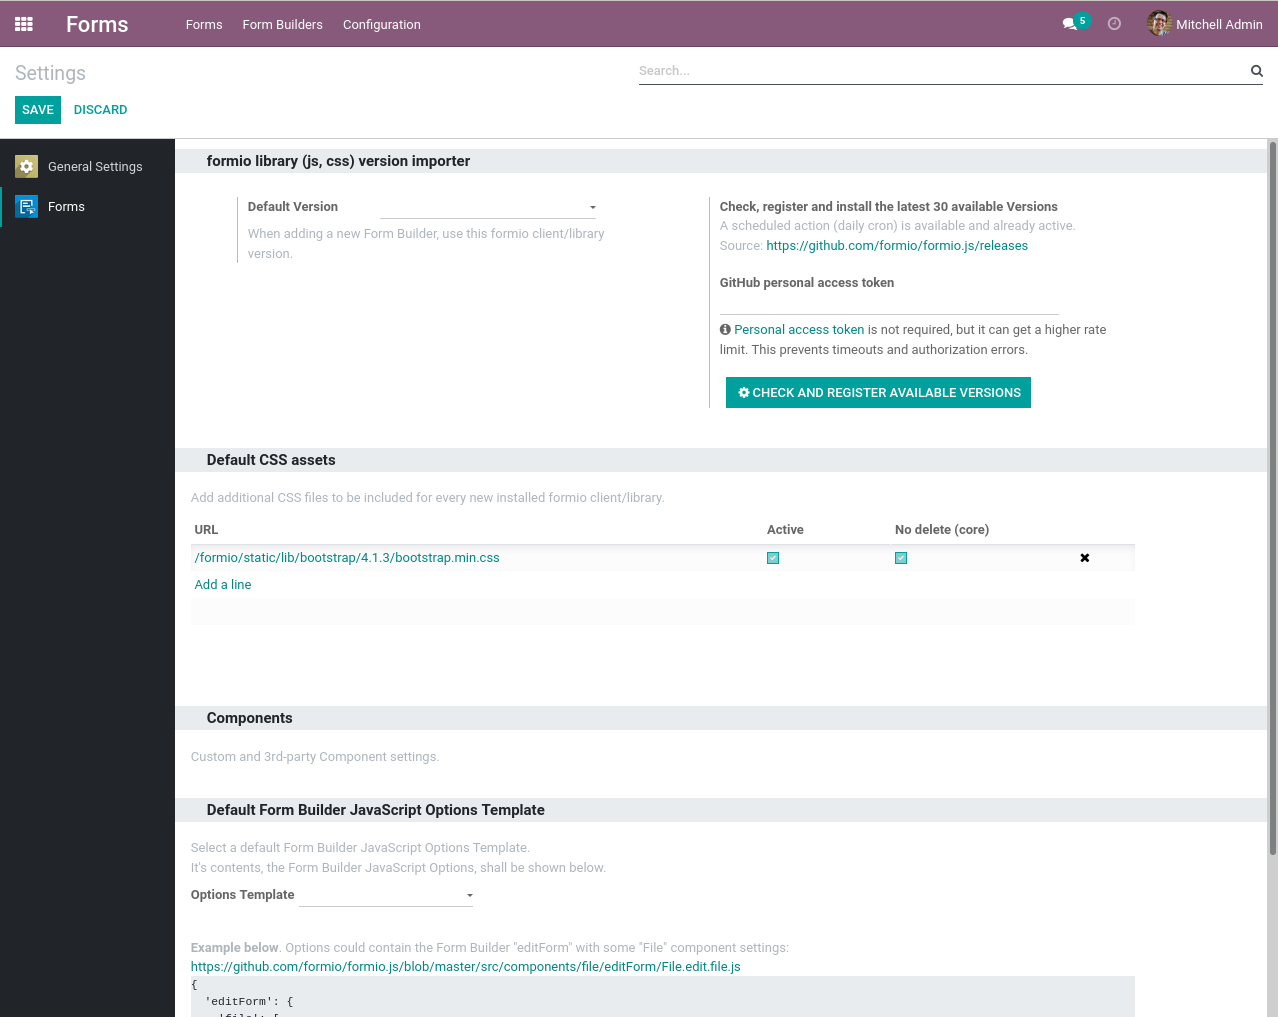
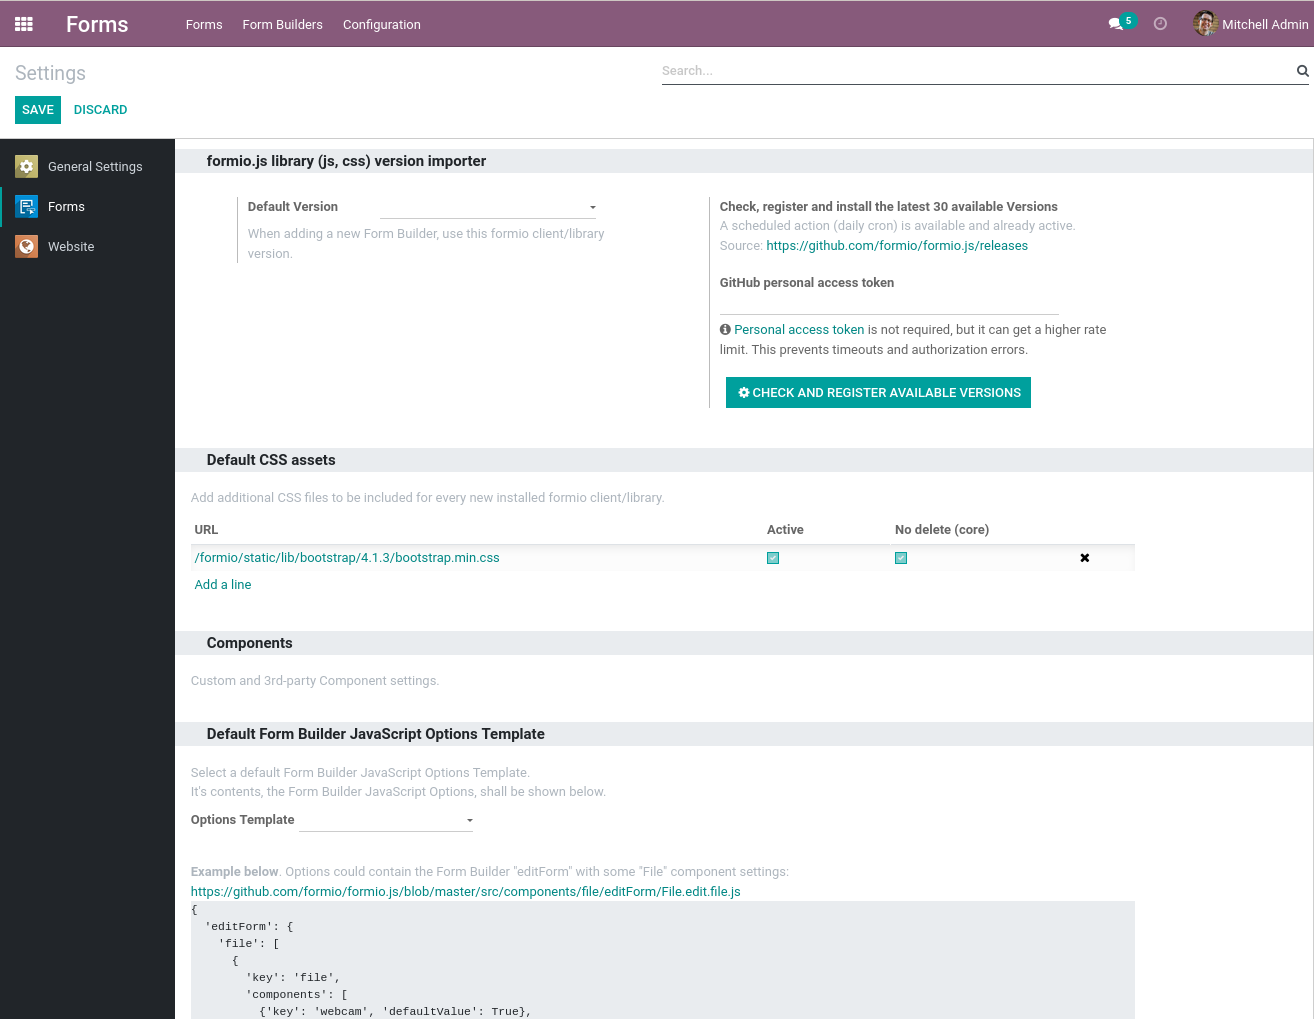
[IMP] Correct naming of the formio.js library references.

diff --git a/formio/static/description/index.html b/formio/static/description/index.html
@@ -65,8 +65,8 @@
         <td>Forms and Builders are multilingual: Language-switch buttons can be setup. Manage your custom translations (e.g. labels, select choices) in the Form Builder.</td>
       </tr>
       <tr>
-        <td><strong>Upgrade-tool GUI software</strong></td>
-        <td>Upgrade the GUI software (builder, forms) when a new version is available, by just a few clicks.</td>
+        <td><strong>Upgrade-tool formio.js library assets</strong></td>
+        <td>Upgrade the formio.js library assets (builder, forms) when a new version is available, by just a few clicks.</td>
       </tr>
       <tr>
         <td><strong>Developer Friendly</strong></td>
@@ -178,11 +178,11 @@
       <img class="oe_demo oe_picture oe_screenshot" src="formio-config-settings.png">
     </div>
     <div class="oe_row_img oe_centered">
-      <h4 class="oe_mb16 text-center">List of Available &amp; Installed (Form.io GUI) Versions </h4>
+      <h4 class="oe_mb16 text-center">List of Available &amp; Installed formio.js Versions </h4>
       <img class="oe_demo oe_picture oe_screenshot" src="formio-version-check-install.png">
     </div>
     <div class="oe_row_img oe_centered">
-      <h4 class="oe_mb16 text-center">Download &amp; Install Available (Form.io GUI) Versions</h4>
+      <h4 class="oe_mb16 text-center">Download &amp; Install Available formio.js Versions</h4>
       <img class="oe_demo oe_picture oe_screenshot" src="formio-version-download-install.png">
     </div>
   </div>

diff --git a/formio/models/formio_builder.py b/formio/models/formio_builder.py
@@ -44,16 +44,16 @@ class Builder(models.Model):
         help="The form title in the current language", track_visibility='onchange')
     description = fields.Text("Description")
     formio_version_id = fields.Many2one(
-        'formio.version', string='formio Version', required=True,
+        'formio.version', string='formio.js Version', required=True,
         default=lambda self: self._default_formio_version_id(), track_visibility='onchange',
-        help="""Loads the specific formio Javascript API/libraries version (sourcecode: \https://github.com/formio/formio.js)""")
-    formio_version_name = fields.Char(related='formio_version_id.name', string='formio version')
-    formio_css_assets = fields.One2many(related='formio_version_id.css_assets', string='formio CSS')
-    formio_js_assets = fields.One2many(related='formio_version_id.js_assets', string='formio Javascript')
-    formio_js_options_id = fields.Many2one('formio.builder.js.options', string='formio Javascript Options template', store=False)
+        help="""Loads the specific formio.js Javascript libraries version (sourcecode: https://github.com/formio/formio.js)""")
+    formio_version_name = fields.Char(related='formio_version_id.name', string='formio.js version')
+    formio_css_assets = fields.One2many(related='formio_version_id.css_assets', string='formio.js CSS')
+    formio_js_assets = fields.One2many(related='formio_version_id.js_assets', string='formio.js Javascript')
+    formio_js_options_id = fields.Many2one('formio.builder.js.options', string='formio.js Javascript Options template', store=False)
     formio_js_options = fields.Text(
         default=lambda self: self._default_formio_js_options(),
-        string='formio Javascript Options')
+        string='formio.js Javascript Options')
     res_model_id = fields.Many2one(
         "ir.model", compute='_compute_res_model_id', store=True,
         string="Model", help="Model as resource this form represents or acts on")
@@ -375,7 +375,7 @@ class Builder(models.Model):
 
     @api.multi
     def _get_js_options(self):
-        """ formio JS (API) options """
+        """ formio.js (API) options """
         self.ensure_one()
 
         if self.formio_js_options:
@@ -434,7 +434,7 @@ class Builder(models.Model):
 
     def i18n_translations(self):
         i18n = {}
-        # Formio GUI/API translations
+        # formio.js translations
         for trans in self.formio_version_id.translations:
             code = trans.lang_id.formio_ietf_code
             if code not in i18n:
@@ -442,7 +442,7 @@ class Builder(models.Model):
             else:
                 i18n[code][trans.property] = trans.value
         # Form Builder translations (labels etc).
-        # These could override the former GUI/API translations, but
+        # These could override the former formio.js translations, but
         # that's how the Javascript API works.
         for trans in self.translations:
             code = trans.lang_id.formio_ietf_code

diff --git a/formio/models/res_config_settings.py b/formio/models/res_config_settings.py
@@ -7,10 +7,10 @@ from odoo import api, fields, models, _
 class ResConfigSettings(models.TransientModel):
     _inherit = 'res.config.settings'
 
-    formio_default_version_id = fields.Many2one('formio.version', string='formio Version')
-    formio_default_asset_css_ids = fields.Many2many('formio.default.asset.css', string='formio CSS assets')
-    formio_default_builder_js_options_id = fields.Many2one('formio.builder.js.options', string='formio Builder JS options ID')
-    formio_default_builder_js_options = fields.Text(related='formio_default_builder_js_options_id.value', string='formio Builder JS options')
+    formio_default_version_id = fields.Many2one('formio.version', string='formio.js Version')
+    formio_default_asset_css_ids = fields.Many2many('formio.default.asset.css', string='formio.js CSS assets')
+    formio_default_builder_js_options_id = fields.Many2one('formio.builder.js.options', string='formio.js Builder JS options ID')
+    formio_default_builder_js_options = fields.Text(related='formio_default_builder_js_options_id.value', string='formio.js Builder JS options')
     formio_github_personal_access_token = fields.Char(string='GitHub personal access token')
 
     @api.model

diff --git a/formio/models/formio_version_github_tag.py b/formio/models/formio_version_github_tag.py
@@ -20,12 +20,12 @@ STATES = [(STATE_AVAILABLE, "Available"), (STATE_INSTALLED, "Installed")]
 
 class VersionGitHubTag(models.Model):
     _name = 'formio.version.github.tag'
-    _description = 'Formio Version GitHub Tag'
+    _description = 'formio.js Version GitHub Tag'
     #_order = 'create_date desc, id asc'
 
     # IMPORTANT NOTES
     # ===============
-    # Formio published release ain't available with the GitHub releases API
+    # formio.js published release ain't available with the GitHub releases API
     # https://developer.github.com/v3/repos/releases/#list-releases
     #
     # GitHub tags API
@@ -33,7 +33,7 @@ class VersionGitHubTag(models.Model):
 
     name = fields.Char(required=True)
     version_name = fields.Char('_compute_fields')
-    formio_version_id = fields.Many2one('formio.version')
+    formio_version_id = fields.Many2one('formio.version', string='formio.js Version')
     archive_url = fields.Char(compute='_compute_fields', string="Archive URL")
     changelog_url = fields.Char(compute='_compute_fields', string="Changelog URL")
     state = fields.Selection(

diff --git a/formio/models/formio_version_asset.py b/formio/models/formio_version_asset.py
@@ -6,10 +6,10 @@ from odoo import api, fields, models, _
 
 class VersionAsset(models.Model):
     _name = 'formio.version.asset'
-    _description = 'Formio Version Asset'
+    _description = 'formio.js Version Asset'
     _order = 'sequence ASC'
 
-    version_id = fields.Many2one('formio.version', string='Version')
+    version_id = fields.Many2one('formio.version', string='formio.js Version')
     type = fields.Selection([('js', 'js'), ('css', 'css')], string='Type', required=True)
     attachment_id = fields.Many2one(
         'ir.attachment', string="Attachment",

diff --git a/formio/models/formio_version.py b/formio/models/formio_version.py
@@ -8,12 +8,12 @@ from odoo import api, fields, models
 
 class Version(models.Model):
     _name = 'formio.version'
-    _description = 'Formio Version'
+    _description = 'formio.js Version'
     _order = 'sequence DESC'
 
     name = fields.Char(
         "Name", required=True, track_visibility='onchange',
-        help="""formio release/version.""")
+        help="""formio.js release/version.""")
     sequence = fields.Integer()
     description = fields.Text("Description")
     translations = fields.Many2many('formio.translation', string='Translations')

diff --git a/formio/models/formio_translation_source.py b/formio/models/formio_translation_source.py
@@ -6,7 +6,7 @@ from odoo import api, fields, models, _
 
 class TranslationSource(models.Model):
     _name = 'formio.translation.source'
-    _description = 'Formio Version Translation Source'
+    _description = 'formio.js Version Translation Source'
     _rec_name = 'source'
 
     property = fields.Text(string='Property', required=True)

diff --git a/formio/models/formio_translation.py b/formio/models/formio_translation.py
@@ -6,7 +6,7 @@ from odoo import api, fields, models, _
 
 class Translation(models.Model):
     _name = 'formio.translation'
-    _description = 'Formio Version Translation'
+    _description = 'formio.js Version Translation'
     _order = 'lang_id ASC'
 
     lang_id = fields.Many2one('res.lang', string='Language', required=True)

diff --git a/formio/models/formio_builder_translation.py b/formio/models/formio_builder_translation.py
@@ -6,7 +6,7 @@ from odoo import api, fields, models, _
 
 class BuilderTranslation(models.Model):
     _name = 'formio.builder.translation'
-    _description = 'Formio Builder Translation'
+    _description = 'Form Builder Translation'
     _order = 'lang_id ASC'
 
     builder_id = fields.Many2one(

diff --git a/formio/models/formio_form.py b/formio/models/formio_form.py
@@ -475,7 +475,7 @@ class Form(models.Model):
             return False
 
     def _get_js_options(self):
-        """ formio JS (API) options """
+        """ formio.js (API) options """
         options = {
             'i18n': self.i18n_translations()
         }

diff --git a/formio/models/formio_res_model.py b/formio/models/formio_res_model.py
@@ -7,7 +7,7 @@ from odoo.exceptions import UserError
 
 class ResModel(models.Model):
     _name = 'formio.res.model'
-    _description = 'Formio Resource Model'
+    _description = 'Form Resource Model'
 
     _rec_name = 'ir_model_id'
 
